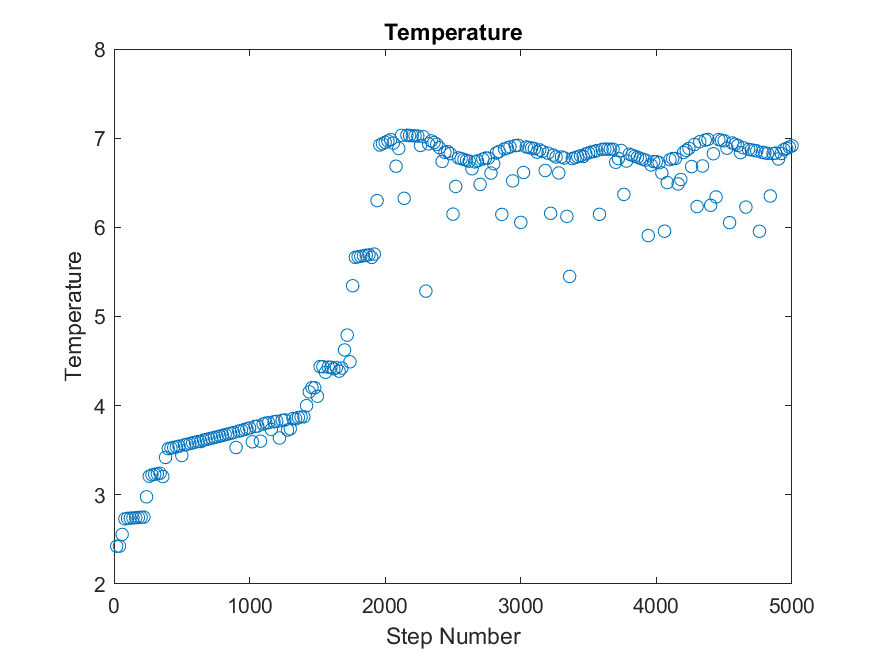
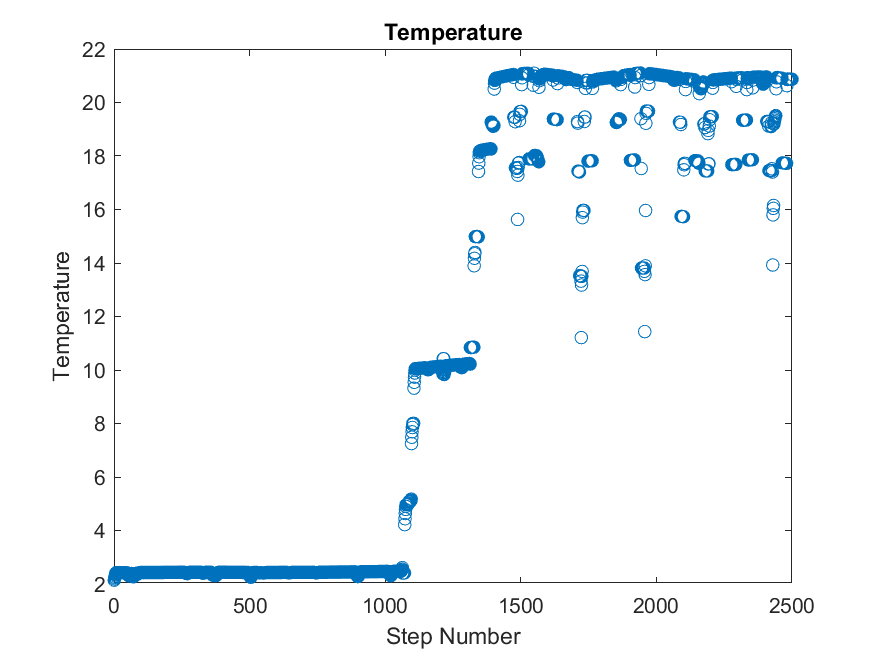
Task 3
Returning the data from task3.

I currently intend to potentially store the vector of a's in the box structure, then adjust the wallMove function to take values from that based upon a condition/index rather than an input of a single "a" value.

diff --git a/src/Simulation.m b/src/Simulation.m
@@ -7,7 +7,10 @@ xNow=[box.left + rand(1,nx)*(box.right-box.left);...
 vNow = vIni*2*(rand(2,nx)-0.5) ;
 collisionCountTotal = zeros(size(nx,2),1);
 
-plot = scatter(xNow(1,:),xNow(2,:),10,'Filled') ;
+hold on
+ballplot = scatter(xNow(1,:),xNow(2,:),10,'Filled') ;
+wall = plot([box.left box.right],[box.up box.up],'black') ;
+hold off
 
 grid on
 xticks(0:box.right/subBox.x:box.right)
@@ -18,7 +21,7 @@ axis square
 
 graphData = struct('temperature', [], 'density', [], 'distance', zeros(1, length(xNow)), ...
     'oldPosition', xNow, 'collisions', zeros(1, length(xNow)), 'pressure', [], ...
-    'tempstd', 0, 'velocity', vNow);
+    'tempstd', 0, 'velocity', vNow, 'position', xNow);
 
 for k = 1:timeSteps
     [xNow,vNow, collisionCount, boxIndex, Fwall] = SimulationStep(h,xNow,vNow,ball,box,usingSubBoxs,subBox,g) ;
@@ -27,14 +30,15 @@ for k = 1:timeSteps
     if mod(k,20) == 0 
         %colours = speedColour(vNow,nColour) ;
         colours = boxColour(boxIndex,subBox) ;
-        set(plot,'XData',xNow(1,:),'YData',xNow(2,:),"MarkerEdgeColor",'Black','CData',colours)
-        drawnow 
+        set(ballplot,'XData',xNow(1,:),'YData',xNow(2,:),"MarkerEdgeColor",'Black','CData',colours)
+        drawnow limitrate
     end
     if wallsMove
-        box = wallMove(k*h,nx,box) ;
+        box = wallMove(k*h,nx,box,wall) ;
     end
     graphData = updateGraphs(xNow, vNow, box, k, graphData, collisionCountTotal, Fwall);
     disp(k*h)
 end
 
-graphData.velocity = vNow;  % Here for the sole use of task 2
+graphData.velocity = vNow;  % Here for the sole use of task 2 (and task 3!!)
+graphData.position = xNow;

diff --git a/src/task3.m b/src/task3.m
@@ -1,0 +1,44 @@
+function graphData = task3(nx, ball, box, usingSubBoxs, subBox, g, vIni, h, totalTime, nColour, moveWalls)
+%% In updateGraphs, make sure to assign mod(k,x) as x = 1 so that temp is recorded at every timestep.
+
+% Just making a bunch of a's for fun.
+a = [box.a 2 3 4 5] ;
+
+%{
+These are both calculated within wallMove
+tau1T = box.tau/h ; 
+tau2T = (box.tau + 5*sqrt(nx)/box.a)/h ;
+%}
+
+for i = 1:size(a,2)
+    rng(1)
+    tau3 = box.tau + 10*sqrt(nx)/box.a ;
+    tau4 = box.tau + 15*sqrt(nx)/box.a ;
+    tau3Tidx = (tau3)/h ;
+    tau4Tidx = (tau4)/h ;
+    totalTime = tau4 ;
+    box.a = a(i) ;
+    graphData = Simulation(nx,ball,box,usingSubBoxs,subBox,g,vIni,h,totalTime,nColour,moveWalls) ;
+    t3Temp(i) = mean(graphData.temperature(2,tau3Tidx:tau4Tidx)) ;
+    t3Pres(i) = mean(graphData.pressure(2,tau3Tidx:tau4Tidx)) ;
+end
+
+graphData.t3Temp = t3Temp ;
+graphData.t3Pres = t3Pres ;
+
+% So, the relevant information is in graphData or a.
+% t3Temp, t3Pres in graphdata are the means of the temperature and pressure
+% across tau3 to tau4
+% a is just a vector of our a values.
+% Perhaps we should adjust tau3 to instead be a longer wait period between
+% tau2 to tau3 so it can equilibriate.
+
+%{
+pressure and gamma change accordingly
+Calculating work done based upon change in pressure and volume and
+temperature/energy
+
+Minimising function
+
+P*(1/2)^7/5 = const
+%}

diff --git a/src/Parameters.m b/src/Parameters.m
@@ -3,7 +3,7 @@ clear
 %% The Simulation
 
 rng(1);
-p = 0  ;
+p = 2  ;
 
 nx = 4^p ; % The upper wall is contingent on nx... so...
 usingSubBoxs = true; 
@@ -15,12 +15,12 @@ U = 10*sqrt(nx) ;
 
 % I know how stupid this looks this is temporary, my brain isnt working
 a = 1 ;
-box = struct('low',L,'up',U,'left',L,'right',U,'tau',0,'a',a) ;
+box = struct('low',L,'up',U,'left',L,'right',U,'tau',10,'a',a) ;
 subBox = struct('x', 13, 'y', 13); 
 
 
 %% Experiment Parameters
-g = 0.0 ;
+g = 0.05 ;
 vIni = 2.5 ;
 nColour = 10 ;
 
@@ -28,9 +28,9 @@ nColour = 10 ;
 h = 0.01 ;
 totalTime = 50 ;
 
-moveWalls = true;
-
-doingTask2 = true;
+doingTask2 = false;
+doingTask3 = true;
+moveWalls = true; % (Necessary if doing task3)
 
 pMax = 1.5;
 if doingTask2
@@ -39,7 +39,12 @@ else
     graphData = Simulation(nx,ball,box,usingSubBoxs,subBox,g,vIni,h,totalTime,nColour,moveWalls)
 end
 
-drawGraphs(graphData, doingTask2)
+if doingTask3
+    % Return graphData with a matrix
+    graphData = task3(nx, ball, box, usingSubBoxs, subBox, g, vIni, h, totalTime, nColour, moveWalls)
+end
+
+drawGraphs(graphData, doingTask2, doingTask3)
 if save 
     saveGraphs(p, box, g, vIni, h, totalTime, moveWalls)
 end

diff --git a/src/drawGraphs.m b/src/drawGraphs.m
@@ -1,4 +1,4 @@
-function drawGraphs(graphData, isTask2)
+function drawGraphs(graphData, isTask2, isTask3)
     %% Temperature
     figure(2)
     plot(graphData.temperature(1, :), graphData.temperature(end, :), 'o')
@@ -56,5 +56,10 @@ function drawGraphs(graphData, isTask2)
 
         % Display the total mean free path
         disp("Mean free path = " + mean(graphData.distance ./ graphData.collisions))
+    end
+
+    %% TASK 3!!!!!!
+    if isTask3
+        
     end
 end

diff --git a/src/wallMove.m b/src/wallMove.m
@@ -1,4 +1,4 @@
-function box = wallMove(t,nx,box)
+function box = wallMove(t,nx,box,wall)
 
 moveFunc = @(t) 10*sqrt(nx) - box.a*(t-box.tau) ;
 tau2 = box.tau + 5*sqrt(nx)/box.a ;
@@ -7,12 +7,7 @@ tau2 = box.tau + 5*sqrt(nx)/box.a ;
 
 if t > box.tau && t <= tau2
     box.up = moveFunc(t) ;
-end
-
-if t == tau2
-    hold on 
-    plot([box.left box.right],[box.up box.up],'black')
-    hold off
+    set(wall,'YData',[box.up box.up])
 end
 
 end

diff --git a/src/task2.m b/src/task2.m
@@ -1,4 +1,4 @@
-function graphData = task2(ball, box, usingSubBoxes, subBox, g, vIni, h, totalTime, nColour, moveWalls pMax)
+function graphData = task2(ball, box, usingSubBoxes, subBox, g, vIni, h, totalTime, nColour, moveWalls ,pMax)
     rng(1)  % Ensure same run each time
 
     tempstd = zeros(2, pMax*2-1);  % Preallocate vector

diff --git a/src/updateGraphs.m b/src/updateGraphs.m
@@ -3,7 +3,7 @@ function [graphData] = updateGraphs(x, v, box, k, graphData, collisionCount, Fwa
     % figures
 
     %% Temperature
-    if mod(k, 20) == 0
+    if mod(k, 1) == 0
         averageTemp = averageTemperature(x, v, box);
         graphData.temperature(:, end+1) = [k, averageTemp];
     end

diff --git a/src/SimulationStep.m b/src/SimulationStep.m
@@ -26,6 +26,9 @@ Symplectic:
 vnew = v + h*g(tn,xn)
 xnew = x + h*f(tn,vn+1)
 
+vnew = v + h*Forces
+xnew = x + h*vnew
+
 
 dx/dt = f(t,v) and dv/dt = g(t,x) btw.
 Surely g(tn,xn) is Forces. Since it's the acceleration at our current step.
